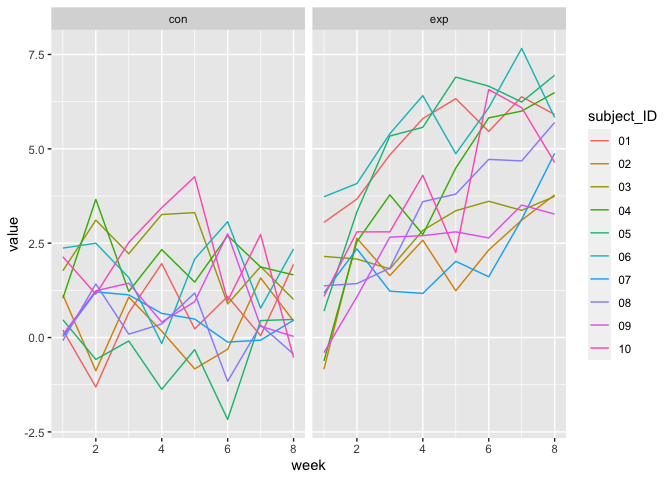
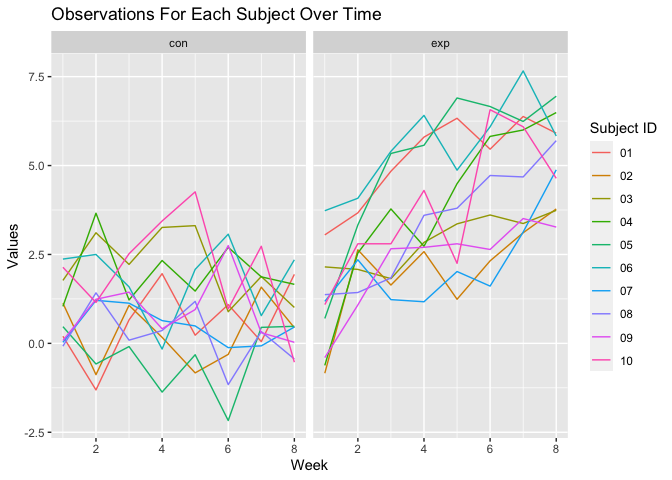
problem 3

diff --git a/p8105_hw5_ar4459_practice.md b/p8105_hw5_ar4459_practice.md
@@ -194,7 +194,11 @@ data_clean =
     values_to =  "value") |> 
   select(subject_ID, tx_arm, week, value) |>
   mutate(week = as.numeric(week))
+
+min(pull(data_clean |> filter(tx_arm == "con")))
 ```
+
+    ## [1] -2.17
 
 Spaghetti plot
 
@@ -203,11 +207,52 @@ plot =
   data_clean |> 
   ggplot(aes(x = week, y = value, color = subject_ID)) +
   geom_line() +
-  facet_wrap(~tx_arm)
+  facet_wrap(~tx_arm) +
+  labs(
+    x = "Week",
+    y = "Values",
+    color = "Subject ID",
+    title = "Observations For Each Subject Over Time"
+  )
 
 plot
 ```
 
 ![](p8105_hw5_ar4459_practice_files/figure-gfm/unnamed-chunk-3-1.png)<!-- -->
+The spaghetti plot shows that the control group has lower values than
+the experimental group. The control group appreas to stay between -2.5
+and 5 while the experimental group increases over time. The mean value
+for the control group is 1.017375 and the mean value for the
+experimental group is 3.642125. The minimum value for the control group
+is -2.17 and the miniumum value for the treatment group is -0.84. The
+maximum value for the control group is 4.26 and the maximum value for
+the experimental group is 7.66.
 
 ## Problem 3
+
+``` r
+# generate data
+t_test_sim = function(n = 30, mu = 0, sigma = 5) {
+  
+  data = 
+    tibble(
+      x = rnorm(n = n, mean = mu, sd = sigma)
+    )
+  
+  t_test = 
+    t.test(data, mean = 0, conf.level = 0.95) |> 
+    broom::tidy()
+}
+```
+
+``` r
+# Generate 5000 datasets from the model
+
+output = vector("list", 5000)
+
+for (i in 5000) {
+  output[[i]] = t_test_sim(30)
+}
+
+sim_results = bind_rows(output)
+```
